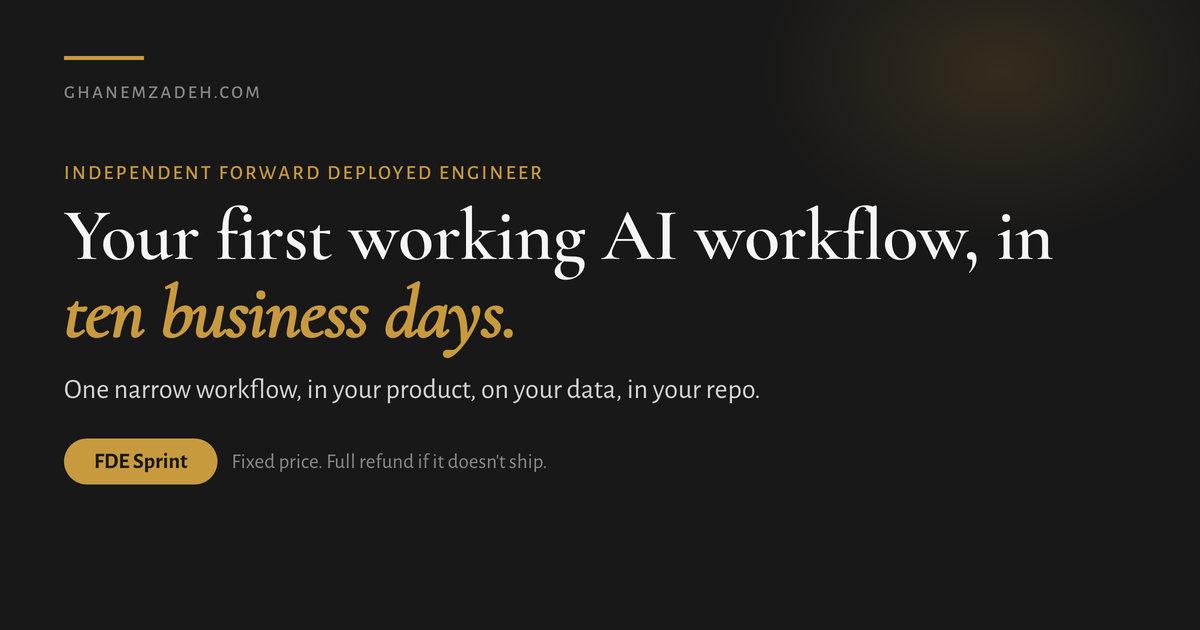
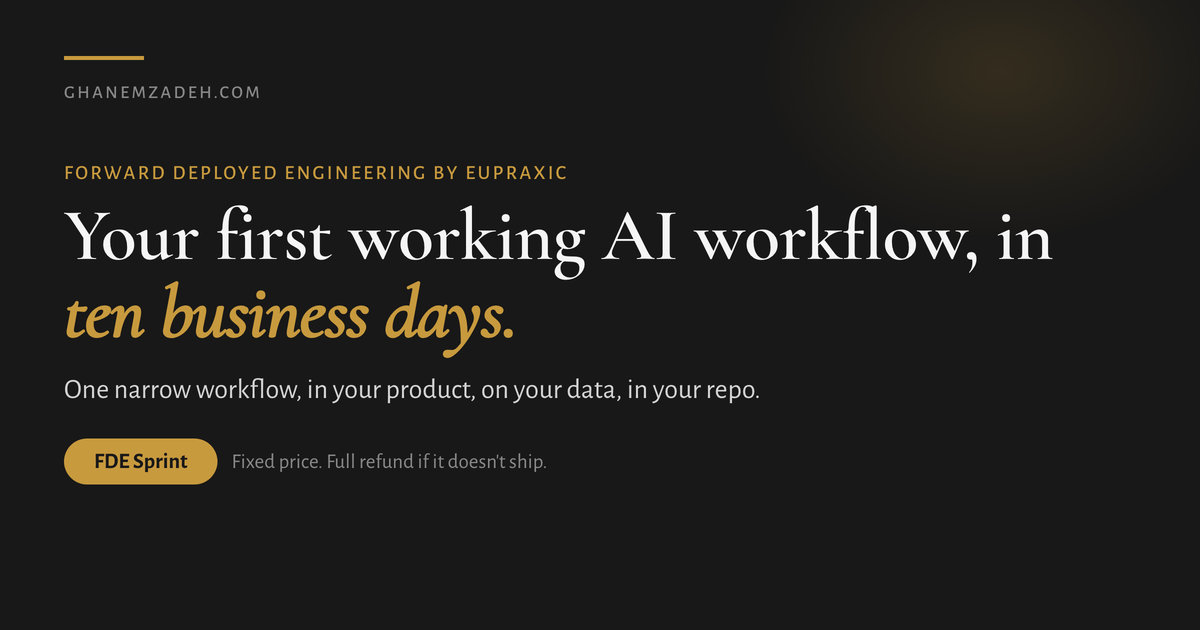
Sprint page and share card: drop "Independent", name Eupraxic
The Sprint page eyebrow is "Forward deployed engineer for founder-led B2B
SaaS", matching the home page. The share card's eyebrow is "Forward deployed
engineering by Eupraxic"; og-sprint.jpg is re-rendered from
scripts/og/sprint-card.html and its ?v= is bumped to 20261021 on the eight
pages that use it, so LinkedIn and X fetch the new image.

Changed region(s): [[0.0617, 0.2413, 0.4625, 0.3016]]

diff --git a/ai-feature-sprint/index.html b/ai-feature-sprint/index.html
@@ -32,7 +32,7 @@
   <meta property="og:title" content="Hire a Forward Deployed Engineer: the FDE Sprint by Eupraxic">
   <meta property="og:description" content="Your first working AI workflow, in your product, in ten business days. Fixed scope, fixed price, full refund if it doesn't ship.">
   <meta property="og:url" content="https://ghanemzadeh.com/ai-feature-sprint/">
-  <meta property="og:image" content="https://ghanemzadeh.com/assets/ai-feature-sprint/og-sprint.jpg?v=20261001">
+  <meta property="og:image" content="https://ghanemzadeh.com/assets/ai-feature-sprint/og-sprint.jpg?v=20261021">
   <meta property="og:image:width" content="1200">
   <meta property="og:image:height" content="630">
 
@@ -40,7 +40,7 @@
   <meta name="twitter:card" content="summary_large_image">
   <meta name="twitter:title" content="Hire a Forward Deployed Engineer: the FDE Sprint by Eupraxic">
   <meta name="twitter:description" content="Your first working AI workflow, in your product, in ten business days. Fixed scope, fixed price, full refund if it doesn't ship.">
-  <meta name="twitter:image" content="https://ghanemzadeh.com/assets/ai-feature-sprint/og-sprint.jpg?v=20261001">
+  <meta name="twitter:image" content="https://ghanemzadeh.com/assets/ai-feature-sprint/og-sprint.jpg?v=20261021">
 
   <script type="application/ld+json">
   {
@@ -391,7 +391,7 @@
 
     <header class="hero afs-hero">
       <div class="container">
-        <p class="eyebrow-num">Independent forward deployed engineer for founder-led B2B SaaS</p>
+        <p class="eyebrow-num">Forward deployed engineer for founder-led B2B SaaS</p>
         <h1>Your first working AI workflow, in your product, in <em>ten business days.</em></h1>
         <p class="page-meta">Delivered by <a href="https://eupraxic.com/fde-sprint/" target="_blank" rel="noopener noreferrer">Eupraxic</a>, the forward deployed AI engineering firm founded by Nasser Ghanemzadeh.</p>
         <p class="afs-subhead">OpenAI and Anthropic each launched a new company this year to put engineers inside their customers. I do the same work as an independent forward deployed engineer, sized for a founder-led team: one narrow workflow, scoped on Day 1, running on your data by Day 5, in your repo by Day 10. I pick the model that fits the job, not the one I'm paid to resell.</p>

diff --git a/fde-cost-calculator/index.html b/fde-cost-calculator/index.html
@@ -32,7 +32,7 @@
   <meta property="og:title" content="FDE Cost Calculator: Hire vs Contractor vs Sprint">
   <meta property="og:description" content="Put in how many AI workflows you need this year. See the first-year cost, cost per workflow, and time to the first shipped workflow for a hire, a contractor, and a Sprint.">
   <meta property="og:url" content="https://ghanemzadeh.com/fde-cost-calculator/">
-  <meta property="og:image" content="https://ghanemzadeh.com/assets/ai-feature-sprint/og-sprint.jpg?v=20261001">
+  <meta property="og:image" content="https://ghanemzadeh.com/assets/ai-feature-sprint/og-sprint.jpg?v=20261021">
   <meta property="og:image:width" content="1200">
   <meta property="og:image:height" content="630">
 
@@ -40,7 +40,7 @@
   <meta name="twitter:card" content="summary_large_image">
   <meta name="twitter:title" content="FDE Cost Calculator: Hire vs Contractor vs Sprint">
   <meta name="twitter:description" content="Put in how many AI workflows you need this year. See the first-year cost, cost per workflow, and time to the first shipped workflow for a hire, a contractor, and a Sprint.">
-  <meta name="twitter:image" content="https://ghanemzadeh.com/assets/ai-feature-sprint/og-sprint.jpg?v=20261001">
+  <meta name="twitter:image" content="https://ghanemzadeh.com/assets/ai-feature-sprint/og-sprint.jpg?v=20261021">
 
   <script type="application/ld+json">
   {

diff --git a/forward-deployed-engineer-job-market/index.html b/forward-deployed-engineer-job-market/index.html
@@ -32,7 +32,7 @@
   <meta property="og:title" content="Forward Deployed Engineer Jobs: 260 Roles Analyzed (2026)">
   <meta property="og:description" content="I pulled every live forward deployed role from 144 company job boards. Median US posted base: $180,000 to $250,000. Half the travel figures say up to 50%.">
   <meta property="og:url" content="https://ghanemzadeh.com/forward-deployed-engineer-job-market/">
-  <meta property="og:image" content="https://ghanemzadeh.com/assets/ai-feature-sprint/og-sprint.jpg?v=20261001">
+  <meta property="og:image" content="https://ghanemzadeh.com/assets/ai-feature-sprint/og-sprint.jpg?v=20261021">
   <meta property="og:image:width" content="1200">
   <meta property="og:image:height" content="630">
 
@@ -40,7 +40,7 @@
   <meta name="twitter:card" content="summary_large_image">
   <meta name="twitter:title" content="Forward Deployed Engineer Jobs: 260 Roles Analyzed (2026)">
   <meta name="twitter:description" content="I pulled every live forward deployed role from 144 company job boards. Median US posted base: $180,000 to $250,000. Half the travel figures say up to 50%.">
-  <meta name="twitter:image" content="https://ghanemzadeh.com/assets/ai-feature-sprint/og-sprint.jpg?v=20261001">
+  <meta name="twitter:image" content="https://ghanemzadeh.com/assets/ai-feature-sprint/og-sprint.jpg?v=20261021">
 
   <script type="application/ld+json">
   {

diff --git a/ai-agency-vs-forward-deployed-engineer/index.html b/ai-agency-vs-forward-deployed-engineer/index.html
@@ -32,7 +32,7 @@
   <meta property="og:title" content="AI Agency vs Forward Deployed Engineer: Which to Hire">
   <meta property="og:description" content="An agency sells a team and a project. A forward deployed engineer ships one AI workflow inside your codebase and hands it to your team. When each one fits.">
   <meta property="og:url" content="https://ghanemzadeh.com/ai-agency-vs-forward-deployed-engineer/">
-  <meta property="og:image" content="https://ghanemzadeh.com/assets/ai-feature-sprint/og-sprint.jpg?v=20261001">
+  <meta property="og:image" content="https://ghanemzadeh.com/assets/ai-feature-sprint/og-sprint.jpg?v=20261021">
   <meta property="og:image:width" content="1200">
   <meta property="og:image:height" content="630">
 
@@ -40,7 +40,7 @@
   <meta name="twitter:card" content="summary_large_image">
   <meta name="twitter:title" content="AI Agency vs Forward Deployed Engineer: Which to Hire">
   <meta name="twitter:description" content="An agency sells a team and a project. A forward deployed engineer ships one AI workflow inside your codebase and hands it to your team. When each one fits.">
-  <meta name="twitter:image" content="https://ghanemzadeh.com/assets/ai-feature-sprint/og-sprint.jpg?v=20261001">
+  <meta name="twitter:image" content="https://ghanemzadeh.com/assets/ai-feature-sprint/og-sprint.jpg?v=20261021">
 
   <script type="application/ld+json">
   {

diff --git a/forward-deployed-engineer-for-startups/index.html b/forward-deployed-engineer-for-startups/index.html
@@ -31,7 +31,7 @@
   <meta property="og:title" content="Forward Deployed Engineers for Startups: 3 Ways to Get One">
   <meta property="og:description" content="Hire one full-time, contract a freelancer or agency, or run a fixed-scope Sprint: what each costs, how fast it ships, and who owns the work after.">
   <meta property="og:url" content="https://ghanemzadeh.com/forward-deployed-engineer-for-startups/">
-  <meta property="og:image" content="https://ghanemzadeh.com/assets/ai-feature-sprint/og-sprint.jpg?v=20261001">
+  <meta property="og:image" content="https://ghanemzadeh.com/assets/ai-feature-sprint/og-sprint.jpg?v=20261021">
   <meta property="og:image:width" content="1200">
   <meta property="og:image:height" content="630">
 
@@ -39,7 +39,7 @@
   <meta name="twitter:card" content="summary_large_image">
   <meta name="twitter:title" content="Forward Deployed Engineers for Startups: 3 Ways to Get One">
   <meta name="twitter:description" content="Hire one full-time, contract a freelancer or agency, or run a fixed-scope Sprint: what each costs, how fast it ships, and who owns the work after.">
-  <meta name="twitter:image" content="https://ghanemzadeh.com/assets/ai-feature-sprint/og-sprint.jpg?v=20261001">
+  <meta name="twitter:image" content="https://ghanemzadeh.com/assets/ai-feature-sprint/og-sprint.jpg?v=20261021">
 
   <script type="application/ld+json">
   {

diff --git a/call/index.html b/call/index.html
@@ -34,7 +34,7 @@
   <meta property="og:title" content="Book a free 15-minute AI Workflow Scoping Call">
   <meta property="og:description" content="Pick the AI workflow worth shipping first, check your data can carry it in ten days, and leave with a one-sentence scope, with or without me.">
   <meta property="og:url" content="https://ghanemzadeh.com/call/">
-  <meta property="og:image" content="https://ghanemzadeh.com/assets/ai-feature-sprint/og-sprint.jpg?v=20261001">
+  <meta property="og:image" content="https://ghanemzadeh.com/assets/ai-feature-sprint/og-sprint.jpg?v=20261021">
   <meta property="og:image:width" content="1200">
   <meta property="og:image:height" content="630">
 
@@ -42,7 +42,7 @@
   <meta name="twitter:card" content="summary_large_image">
   <meta name="twitter:title" content="Book a free 15-minute AI Workflow Scoping Call">
   <meta name="twitter:description" content="Pick the AI workflow worth shipping first, check your data can carry it in ten days, and leave with a one-sentence scope, with or without me.">
-  <meta name="twitter:image" content="https://ghanemzadeh.com/assets/ai-feature-sprint/og-sprint.jpg?v=20261001">
+  <meta name="twitter:image" content="https://ghanemzadeh.com/assets/ai-feature-sprint/og-sprint.jpg?v=20261021">
 
   <script type="application/ld+json">
   {

diff --git a/offer/index.html b/offer/index.html
@@ -34,7 +34,7 @@
   <meta property="og:title" content="FDE Sprint: the one-page offer">
   <meta property="og:description" content="One working AI workflow shipped into your product in ten business days. Prototype on your data by Day 5 or a full refund.">
   <meta property="og:url" content="https://ghanemzadeh.com/offer/">
-  <meta property="og:image" content="https://ghanemzadeh.com/assets/ai-feature-sprint/og-sprint.jpg?v=20261001">
+  <meta property="og:image" content="https://ghanemzadeh.com/assets/ai-feature-sprint/og-sprint.jpg?v=20261021">
   <meta property="og:image:width" content="1200">
   <meta property="og:image:height" content="630">
 
@@ -42,7 +42,7 @@
   <meta name="twitter:card" content="summary_large_image">
   <meta name="twitter:title" content="FDE Sprint: the one-page offer">
   <meta name="twitter:description" content="One working AI workflow shipped into your product in ten business days. Prototype on your data by Day 5 or a full refund.">
-  <meta name="twitter:image" content="https://ghanemzadeh.com/assets/ai-feature-sprint/og-sprint.jpg?v=20261001">
+  <meta name="twitter:image" content="https://ghanemzadeh.com/assets/ai-feature-sprint/og-sprint.jpg?v=20261021">
 
   <script type="application/ld+json">
   {

diff --git a/call/thanks/index.html b/call/thanks/index.html
@@ -30,7 +30,7 @@
   <meta property="og:title" content="Booked: one thing before your Scoping Call">
   <meta property="og:description" content="Score your workflow in two minutes and bring the result to the call.">
   <meta property="og:url" content="https://ghanemzadeh.com/call/thanks/">
-  <meta property="og:image" content="https://ghanemzadeh.com/assets/ai-feature-sprint/og-sprint.jpg?v=20261001">
+  <meta property="og:image" content="https://ghanemzadeh.com/assets/ai-feature-sprint/og-sprint.jpg?v=20261021">
   <meta property="og:image:width" content="1200">
   <meta property="og:image:height" content="630">
 </head>

diff --git a/scripts/og/sprint-card.html b/scripts/og/sprint-card.html
@@ -38,7 +38,7 @@
   <div class="rule"></div>
   <div class="site">ghanemzadeh.com</div>
   <div class="body">
-    <div class="eyebrow">Independent forward deployed engineer</div>
+    <div class="eyebrow">Forward deployed engineering by Eupraxic</div>
     <h1 class="title">Your first working AI workflow, in <em>ten business days.</em></h1>
     <p class="hook">One narrow workflow, in your product, on your data, in your repo.</p>
     <div class="row"><span class="pill">FDE Sprint</span><span class="note">Fixed price. Full refund if it doesn't ship.</span></div>
